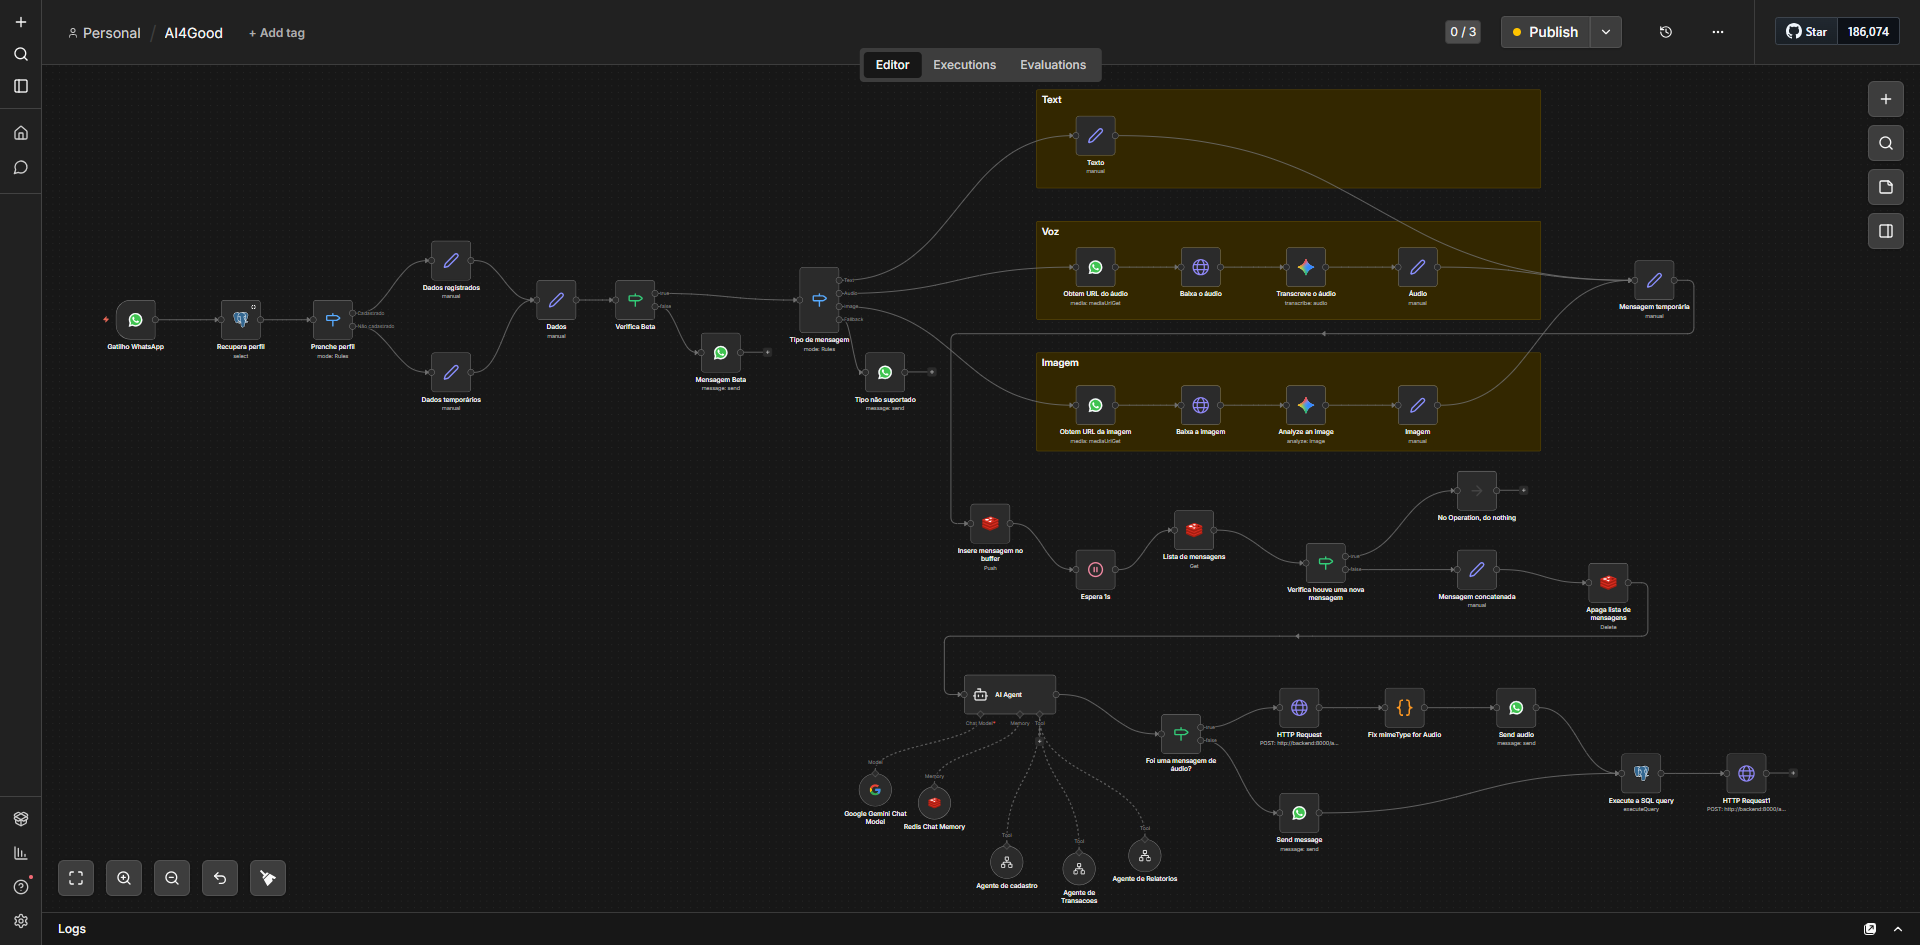
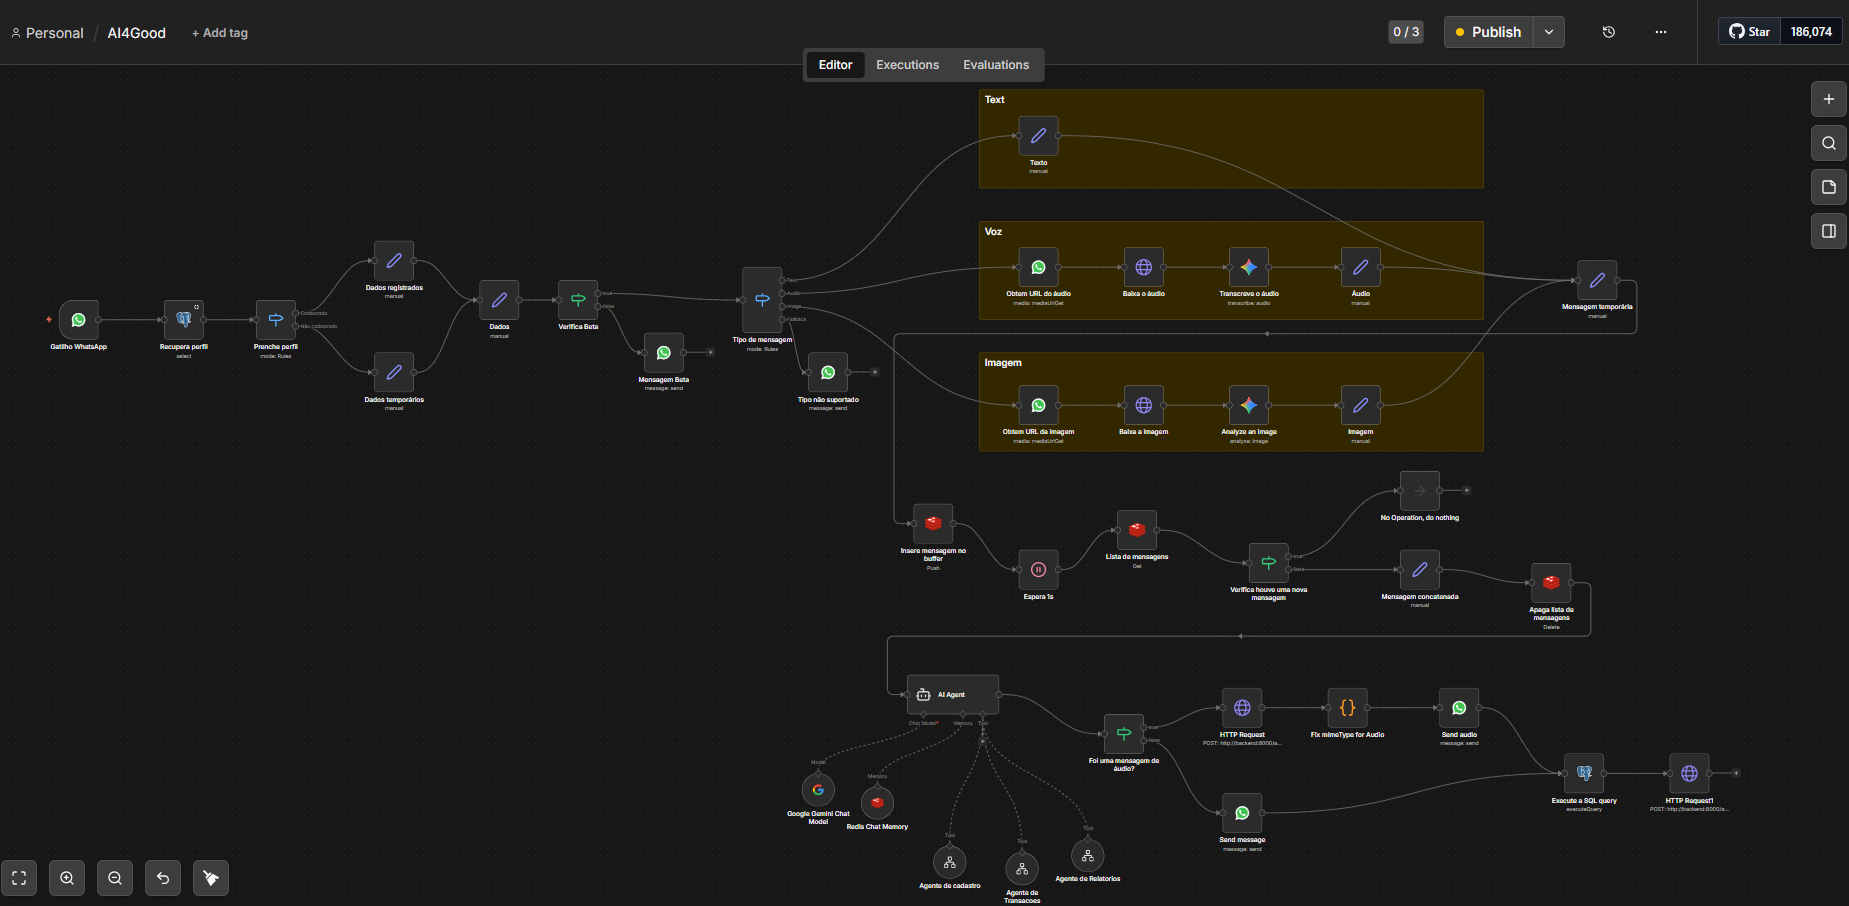
feat: slide 7 com 4 fluxos N8N selecionáveis e zoom interativo
Botões clicáveis para alternar entre:
- Agente Orquestrador (n8n-ya.png atualizado)
- Agente de Cadastro
- Agente de Transações
- Agente de Relatórios

Cada botão destaca com a cor do agente. Troca de fluxo reseta zoom/pan.

diff --git a/src/components/presentation/talk/slides/SlideArquitetura.tsx b/src/components/presentation/talk/slides/SlideArquitetura.tsx
@@ -2,7 +2,10 @@ import { useRef, useState, useEffect, useCallback } from "react";
 import { ZoomIn, ZoomOut, RotateCcw } from "lucide-react";
 import { TalkSlideProps } from "../types";
 import TalkSlideContainer from "../TalkSlideContainer";
-import n8nWorkflow from "@/assets/images/n8n-ya.png";
+import n8nOrquestrador from "@/assets/images/n8n-ya.png";
+import n8nCadastro from "@/assets/images/n8n-cadastro.png";
+import n8nTransacao from "@/assets/images/n8n-trasacao.png";
+import n8nRelatorio from "@/assets/images/n8n-relatorio.png";
 
 const techBlocks = [
   { label: "WhatsApp Business API", sub: "Canal de entrada", color: "#25D366" },
@@ -17,15 +20,30 @@ const academicCards = [
   { title: "Design Science Research", desc: "Construir o artefato E gerar conhecimento científico" },
 ];
 
+const flows = [
+  { key: "orquestrador", label: "Agente Orquestrador", color: "#E8673C", img: n8nOrquestrador },
+  { key: "cadastro",     label: "Agente de Cadastro",  color: "#25D366", img: n8nCadastro },
+  { key: "transacao",    label: "Agente de Transações", color: "#4285F4", img: n8nTransacao },
+  { key: "relatorio",    label: "Agente de Relatórios", color: "#C040A0", img: n8nRelatorio },
+];
+
 const SlideArquitetura = ({ isActive, variant }: TalkSlideProps) => {
   if (!isActive) return null;
   const isBaia = variant === "baia";
 
   const containerRef = useRef<HTMLDivElement>(null);
+  const [activeFlow, setActiveFlow] = useState(0);
   const [zoom, setZoom] = useState(1);
   const [pan, setPan] = useState({ x: 0, y: 0 });
   const dragging = useRef(false);
   const dragOrigin = useRef({ mx: 0, my: 0, px: 0, py: 0 });
+
+  // Reset zoom/pan when switching flows
+  const selectFlow = useCallback((idx: number) => {
+    setActiveFlow(idx);
+    setZoom(1);
+    setPan({ x: 0, y: 0 });
+  }, []);
 
   useEffect(() => {
     const el = containerRef.current;
@@ -56,6 +74,8 @@ const SlideArquitetura = ({ isActive, variant }: TalkSlideProps) => {
   const onMouseUp = useCallback(() => { dragging.current = false; }, []);
 
   const reset = () => { setZoom(1); setPan({ x: 0, y: 0 }); };
+
+  const current = flows[activeFlow];
 
   return (
     <TalkSlideContainer className="bg-[#0A0A0A] flex flex-col px-20 pt-14 pb-10 relative overflow-hidden">
@@ -115,56 +135,84 @@ const SlideArquitetura = ({ isActive, variant }: TalkSlideProps) => {
             </div>
           </div>
         ) : (
-          /* Trind: zoomable N8N workflow */
-          <div
-            ref={containerRef}
-            className="flex-1 relative rounded-2xl overflow-hidden border border-border/30 bg-[#111] select-none"
-            style={{ cursor: zoom > 1 ? "grab" : "zoom-in" }}
-            onMouseDown={onMouseDown}
-            onMouseMove={onMouseMove}
-            onMouseUp={onMouseUp}
-            onMouseLeave={onMouseUp}
-          >
-            <img
-              src={n8nWorkflow}
-              alt="Workflow real da Yá no N8N"
-              draggable={false}
-              style={{
-                width: "100%",
-                height: "100%",
-                objectFit: "contain",
-                transform: `translate(${pan.x}px, ${pan.y}px) scale(${zoom})`,
-                transformOrigin: "center center",
-                transition: dragging.current ? "none" : "transform 0.15s ease",
-                userSelect: "none",
-              }}
-            />
-
-            {/* Zoom controls */}
-            <div className="absolute top-3 right-4 flex items-center gap-2 z-10">
-              <button
-                onClick={() => setZoom(z => Math.min(8, z + 0.5))}
-                className="w-8 h-8 rounded-lg bg-[#0A0A0A]/80 border border-border/40 flex items-center justify-center text-white/70 hover:text-white hover:border-primary/50 transition-colors"
-              >
-                <ZoomIn size={14} />
-              </button>
-              <span className="font-mono text-[11px] text-white/40 min-w-[36px] text-center">{Math.round(zoom * 100)}%</span>
-              <button
-                onClick={() => setZoom(z => Math.max(1, z - 0.5))}
-                className="w-8 h-8 rounded-lg bg-[#0A0A0A]/80 border border-border/40 flex items-center justify-center text-white/70 hover:text-white hover:border-primary/50 transition-colors"
-              >
-                <ZoomOut size={14} />
-              </button>
-              <button
-                onClick={reset}
-                className="w-8 h-8 rounded-lg bg-[#0A0A0A]/80 border border-border/40 flex items-center justify-center text-white/70 hover:text-white hover:border-primary/50 transition-colors"
-              >
-                <RotateCcw size={13} />
-              </button>
+          <div className="flex-1 flex flex-col gap-3 min-h-0">
+            {/* Flow selector buttons */}
+            <div className="flex gap-3 shrink-0">
+              {flows.map((f, i) => (
+                <button
+                  key={f.key}
+                  onClick={() => selectFlow(i)}
+                  className="flex items-center gap-2 px-5 py-2.5 rounded-xl border text-[14px] font-bold font-display transition-all duration-200"
+                  style={{
+                    backgroundColor: activeFlow === i ? `${f.color}22` : "transparent",
+                    borderColor: activeFlow === i ? f.color : "rgba(255,255,255,0.1)",
+                    color: activeFlow === i ? f.color : "rgba(255,255,255,0.4)",
+                  }}
+                >
+                  <span
+                    className="w-2 h-2 rounded-full shrink-0"
+                    style={{ backgroundColor: activeFlow === i ? f.color : "rgba(255,255,255,0.2)" }}
+                  />
+                  {f.label}
+                </button>
+              ))}
             </div>
 
-            <div className="absolute bottom-4 left-5 bg-[#0A0A0A]/80 backdrop-blur-sm rounded-lg px-4 py-2 border border-border/40 pointer-events-none">
-              <p className="font-display text-[12px] text-foreground/50">Scroll para zoom · Arraste para navegar</p>
+            {/* Zoomable image */}
+            <div
+              ref={containerRef}
+              className="flex-1 relative rounded-2xl overflow-hidden border bg-[#111] select-none min-h-0"
+              style={{
+                borderColor: `${current.color}44`,
+                cursor: zoom > 1 ? "grab" : "zoom-in",
+              }}
+              onMouseDown={onMouseDown}
+              onMouseMove={onMouseMove}
+              onMouseUp={onMouseUp}
+              onMouseLeave={onMouseUp}
+            >
+              <img
+                key={current.key}
+                src={current.img}
+                alt={current.label}
+                draggable={false}
+                style={{
+                  width: "100%",
+                  height: "100%",
+                  objectFit: "contain",
+                  transform: `translate(${pan.x}px, ${pan.y}px) scale(${zoom})`,
+                  transformOrigin: "center center",
+                  transition: dragging.current ? "none" : "transform 0.15s ease",
+                  userSelect: "none",
+                }}
+              />
+
+              {/* Zoom controls */}
+              <div className="absolute top-3 right-4 flex items-center gap-2 z-10">
+                <button
+                  onClick={() => setZoom(z => Math.min(8, z + 0.5))}
+                  className="w-8 h-8 rounded-lg bg-[#0A0A0A]/80 border border-border/40 flex items-center justify-center text-white/70 hover:text-white hover:border-primary/50 transition-colors"
+                >
+                  <ZoomIn size={14} />
+                </button>
+                <span className="font-mono text-[11px] text-white/40 min-w-[36px] text-center">{Math.round(zoom * 100)}%</span>
+                <button
+                  onClick={() => setZoom(z => Math.max(1, z - 0.5))}
+                  className="w-8 h-8 rounded-lg bg-[#0A0A0A]/80 border border-border/40 flex items-center justify-center text-white/70 hover:text-white hover:border-primary/50 transition-colors"
+                >
+                  <ZoomOut size={14} />
+                </button>
+                <button
+                  onClick={reset}
+                  className="w-8 h-8 rounded-lg bg-[#0A0A0A]/80 border border-border/40 flex items-center justify-center text-white/70 hover:text-white hover:border-primary/50 transition-colors"
+                >
+                  <RotateCcw size={13} />
+                </button>
+              </div>
+
+              <div className="absolute bottom-3 left-4 bg-[#0A0A0A]/80 backdrop-blur-sm rounded-lg px-3 py-1.5 border border-border/40 pointer-events-none">
+                <p className="font-display text-[11px] text-foreground/50">Scroll para zoom · Arraste para navegar</p>
+              </div>
             </div>
           </div>
         )}
